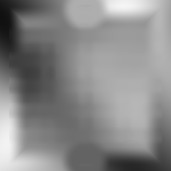
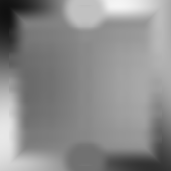
fix(m15): flat village core + muted sidewalk -> roads read flat, not wavy
Playtest (roads still wavy, sidewalk too bright):
- The built-up CORE still stacked medium/short octaves (~±11 m of bumps), so even leveled roads rode
  up-and-down over it and their edges waved against the lower grass. Core is now a SINGLE gentle
  long-wavelength swell (~4 deg, max core grade 6.9 vs ~10) -> roads + village sit near-flat; the
  dramatic relief stays in the perimeter countryside hills.
- Sidewalk was stark bright white + a touch wide: muted to a concrete grey (0.40) and trimmed to 2.0 m.
Grass exclusion tracks the new sidewalk width. GPU-validated: flat level asphalt, subtle concrete curb.
Suite 1335/0.

Claude-Session: https://claude.ai/code/session_019bkUn8eFE8FkfG3ipzkwaU

Changed region(s): [[0.0292, 0.2339, 0.3216, 0.5848], [0.6433, 0.9649, 0.7602, 1.0], [0.117, 0.0, 0.2047, 0.0292]]

diff --git a/tools/map_gen.py b/tools/map_gen.py
@@ -297,7 +297,7 @@ def gen_town_surface_map(world_half=170.0, res=684):
     import numpy as np
     axis = np.linspace(-world_half, world_half, res)
     X, Z = np.meshgrid(axis, axis)                        # X[row,col]=x (per col), Z[row,col]=z (per row)
-    SIDEWALK_M = 2.5
+    SIDEWALK_M = 2.0
     any_road = np.zeros((res, res), dtype=bool)
     any_ring = np.zeros((res, res), dtype=bool)
     for rd in roads:
@@ -419,10 +419,11 @@ def gen_town_heightmap(world_half=170.0, spacing=2.0):
     axis = -world_half + np.arange(n) * spacing
     X, Z = np.meshgrid(axis, axis)
     hm = np.zeros((n, n), dtype=np.float64)
-    # Gentle core swell (~7.5 m, grade ~8 deg), a secondary octave (~2.5 m), and a fine undulation.
-    hm += 7.5 * np.sin(X / 75.0) * np.cos(Z / 90.0)
-    hm += 2.5 * np.sin(X / 45.0 + 1.3) * np.cos(Z / 52.0 + 0.7)
-    hm += 1.5 * np.sin(X / 30.0 + 2.1) * np.cos(Z / 36.0 + 1.1)
+    # A SINGLE gentle long-wavelength swell across the core (grade ~4 deg). The old stacked medium/short
+    # octaves made the built-up core read as BUMPY, so leveled roads rode up-and-down over it and their
+    # edges waved against the lower grass. One smooth swell -> roads (and the whole village) sit on a
+    # near-flat grade; the dramatic relief lives in the perimeter countryside hills below.
+    hm += 5.0 * np.sin(X / 88.0) * np.cos(Z / 98.0)
     # Perimeter hills: ramp in taller relief only OUTSIDE the built-up core (|x|>115 or |z|>120), where
     # edge buildings were removed. `edge` is 0 in the core and eases to 1 toward the map rim, so the
     # extra amplitude never touches a building pad. Wavelengths stay long -> the hills read big but the
